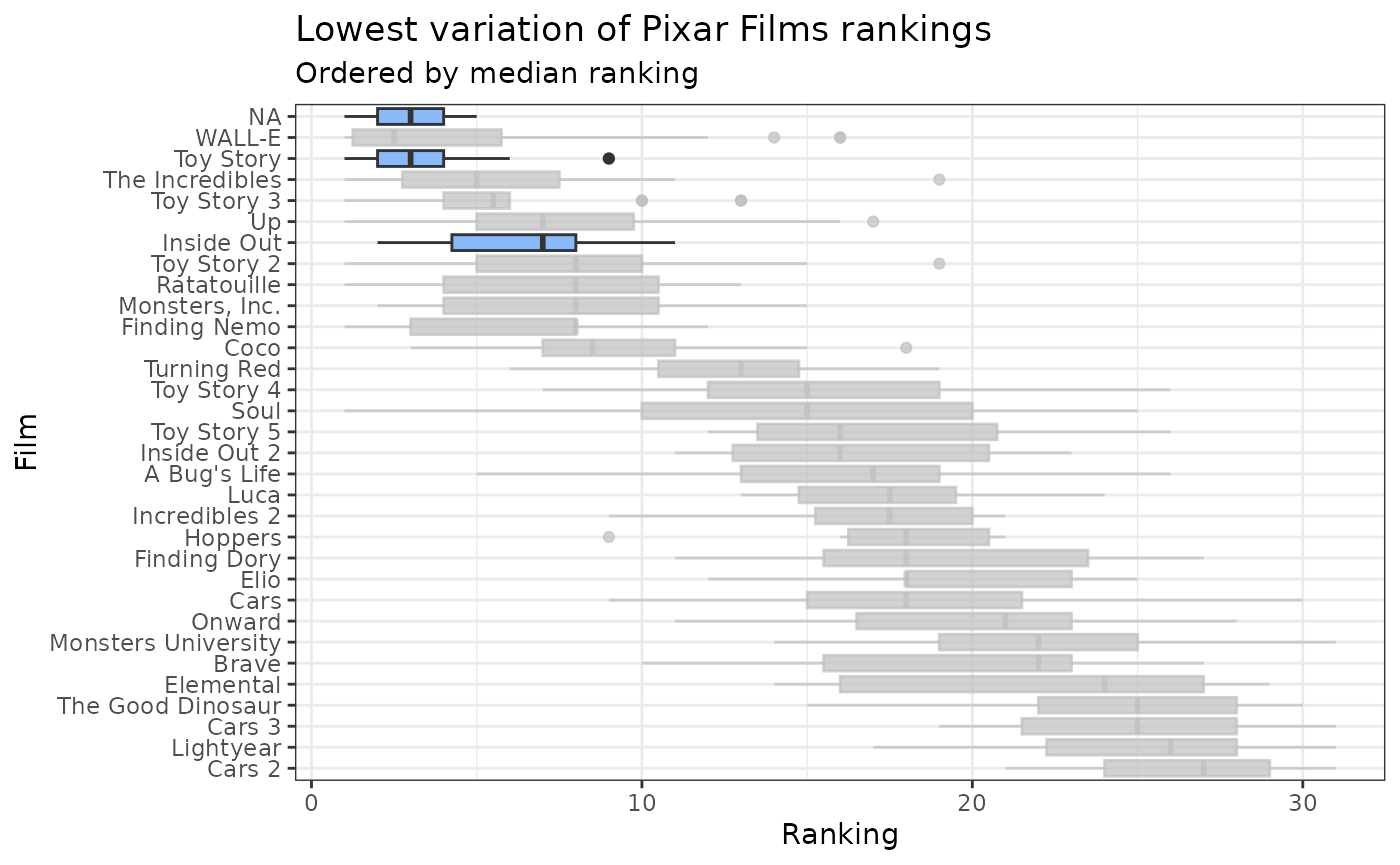
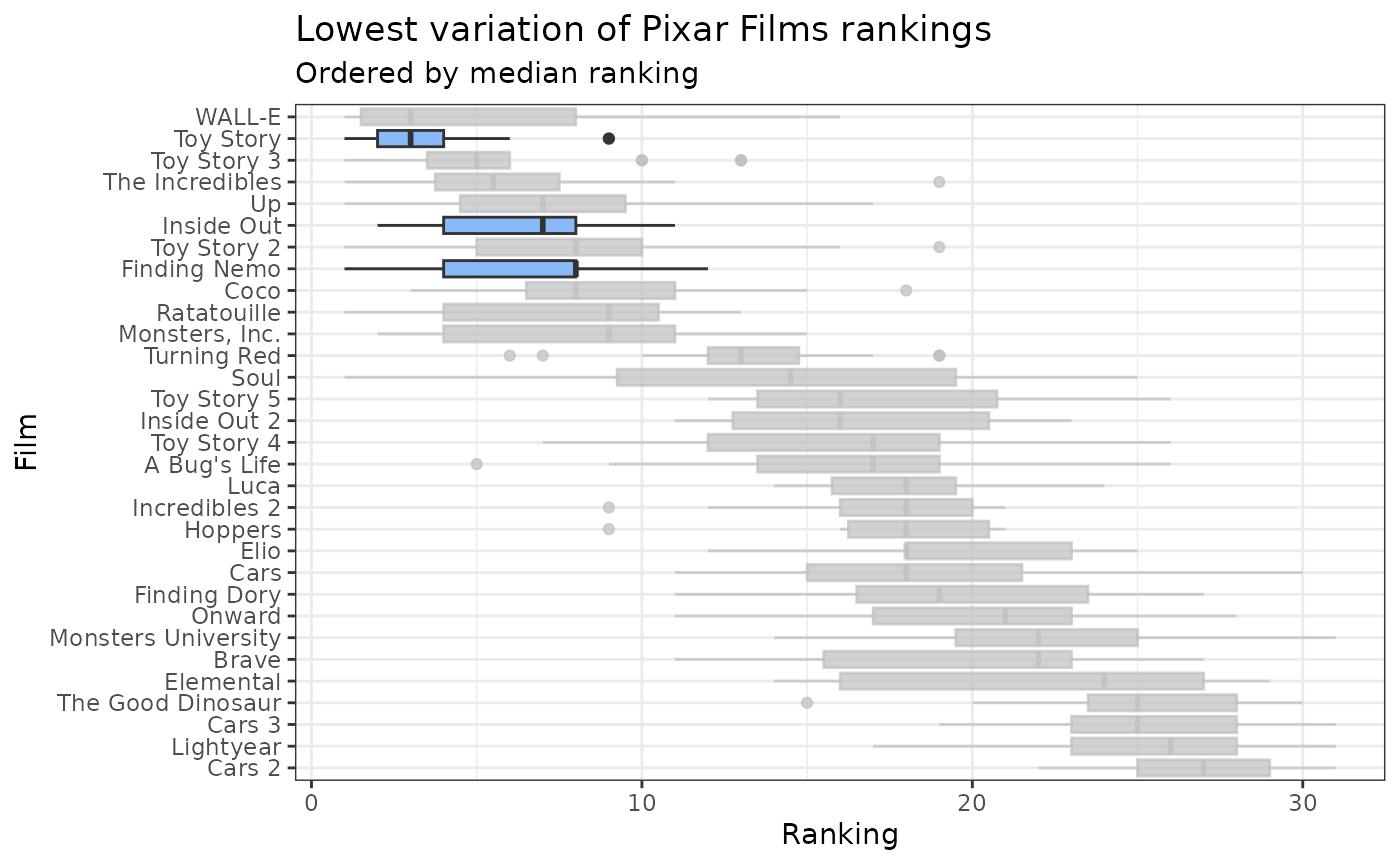
Deploying to gh-pages from @ erictleung/pixarfilms@f928a2eeff03c593ab5d79d384c2a3bc54f45479 🚀

diff --git a/articles/pixar_rankings.html b/articles/pixar_rankings.html
@@ -143,23 +143,24 @@ each film to see which films have the lowest variance.</p>
 <span>  <span class="op">)</span> <span class="op">|&gt;</span></span>
 <span>  <span class="fu"><a href="https://dplyr.tidyverse.org/reference/arrange.html" class="external-link">arrange</a></span><span class="op">(</span><span class="va">sd</span><span class="op">)</span></span>
 <span><span class="fu"><a href="https://rdrr.io/r/base/print.html" class="external-link">print</a></span><span class="op">(</span><span class="va">summary_ranks</span><span class="op">)</span></span>
-<span><span class="co">#&gt; <span style="color: #949494;"># A tibble: 32 × 7</span></span></span>
+<span><span class="co">#&gt; <span style="color: #949494;"># A tibble: 31 × 7</span></span></span>
 <span><span class="co">#&gt;    film             sd    q1    q3   iqr lower_bound upper_bound</span></span>
 <span><span class="co">#&gt;    <span style="color: #949494; font-style: italic;">&lt;chr&gt;</span>         <span style="color: #949494; font-style: italic;">&lt;dbl&gt;</span> <span style="color: #949494; font-style: italic;">&lt;dbl&gt;</span> <span style="color: #949494; font-style: italic;">&lt;dbl&gt;</span> <span style="color: #949494; font-style: italic;">&lt;dbl&gt;</span>       <span style="color: #949494; font-style: italic;">&lt;dbl&gt;</span>       <span style="color: #949494; font-style: italic;">&lt;dbl&gt;</span></span></span>
-<span><span class="co">#&gt; <span style="color: #BCBCBC;"> 1</span> Toy Story      1.99  2      4    2          -<span style="color: #BB0000;">1</span>            7  </span></span>
-<span><span class="co">#&gt; <span style="color: #BCBCBC;"> 2</span> <span style="color: #BB0000;">NA</span>             2.83  2      4    2          -<span style="color: #BB0000;">1</span>            7  </span></span>
-<span><span class="co">#&gt; <span style="color: #BCBCBC;"> 3</span> Inside Out     2.97  4.25   8    3.75       -<span style="color: #BB0000;">1.38</span>        13.6</span></span>
-<span><span class="co">#&gt; <span style="color: #BCBCBC;"> 4</span> Finding Nemo   3.02  3      8    5          -<span style="color: #BB0000;">4.5</span>         15.5</span></span>
-<span><span class="co">#&gt; <span style="color: #BCBCBC;"> 5</span> Luca           3.20 14.8   19.5  4.75        7.62        26.6</span></span>
-<span><span class="co">#&gt; <span style="color: #BCBCBC;"> 6</span> Cars 2         3.30 24     29    5          16.5         36.5</span></span>
-<span><span class="co">#&gt; <span style="color: #BCBCBC;"> 7</span> Incredibles 2  3.39 15.2   20    4.75        8.12        27.1</span></span>
-<span><span class="co">#&gt; <span style="color: #BCBCBC;"> 8</span> Toy Story 3    3.49  4      6    2           1            9  </span></span>
-<span><span class="co">#&gt; <span style="color: #BCBCBC;"> 9</span> Coco           3.66  7     11    4           1           17  </span></span>
-<span><span class="co">#&gt; <span style="color: #BCBCBC;">10</span> Ratatouille    3.78  4     10.5  6.5        -<span style="color: #BB0000;">5.75</span>        20.2</span></span>
-<span><span class="co">#&gt; <span style="color: #949494;"># ℹ 22 more rows</span></span></span></code></pre></div>
-<p>We can see that Toy Story, NA, Inside Out, Finding Nemo, Luca, Cars 2
-have the lowest variance in their rankings. We can highlight these films
-in the boxplot above to see how they compare to the other films.</p>
+<span><span class="co">#&gt; <span style="color: #BCBCBC;"> 1</span> Toy Story      2.04   2     4    2          -<span style="color: #BB0000;">1</span>           7   </span></span>
+<span><span class="co">#&gt; <span style="color: #BCBCBC;"> 2</span> Finding Nemo   2.93   4     8    4          -<span style="color: #BB0000;">2</span>          14   </span></span>
+<span><span class="co">#&gt; <span style="color: #BCBCBC;"> 3</span> Inside Out     2.95   4     8    4          -<span style="color: #BB0000;">2</span>          14   </span></span>
+<span><span class="co">#&gt; <span style="color: #BCBCBC;"> 4</span> Luca           2.96  15.8  19.5  3.75       10.1        25.1 </span></span>
+<span><span class="co">#&gt; <span style="color: #BCBCBC;"> 5</span> Cars 2         3.02  25    29    4          19          35   </span></span>
+<span><span class="co">#&gt; <span style="color: #BCBCBC;"> 6</span> Incredibles 2  3.42  16    20    4          10          26   </span></span>
+<span><span class="co">#&gt; <span style="color: #BCBCBC;"> 7</span> Toy Story 3    3.58   3.5   6    2.5        -<span style="color: #BB0000;">0.25</span>        9.75</span></span>
+<span><span class="co">#&gt; <span style="color: #BCBCBC;"> 8</span> Cars 3         3.63  23    28    5          15.5        35.5 </span></span>
+<span><span class="co">#&gt; <span style="color: #BCBCBC;"> 9</span> Coco           3.69   6.5  11    4.5        -<span style="color: #BB0000;">0.25</span>       17.8 </span></span>
+<span><span class="co">#&gt; <span style="color: #BCBCBC;">10</span> Ratatouille    3.72   4    10.5  6.5        -<span style="color: #BB0000;">5.75</span>       20.2 </span></span>
+<span><span class="co">#&gt; <span style="color: #949494;"># ℹ 21 more rows</span></span></span></code></pre></div>
+<p>We can see that Toy Story, Finding Nemo, Inside Out, Luca, Cars 2,
+Incredibles 2 have the lowest variance in their rankings. We can
+highlight these films in the boxplot above to see how they compare to
+the other films.</p>
 <div class="sourceCode" id="cb5"><pre class="downlit sourceCode r">
 <code class="sourceCode R"><span><span class="va">pixar_rankings</span> <span class="op">|&gt;</span></span>
 <span>  <span class="fu"><a href="https://dplyr.tidyverse.org/reference/mutate.html" class="external-link">mutate</a></span><span class="op">(</span>film <span class="op">=</span> <span class="fu"><a href="https://forcats.tidyverse.org/reference/fct_reorder.html" class="external-link">fct_reorder</a></span><span class="op">(</span><span class="va">film</span>, <span class="va">ranking</span>, .fun <span class="op">=</span> <span class="va">median</span>, .desc <span class="op">=</span> <span class="cn">TRUE</span><span class="op">)</span><span class="op">)</span> <span class="op">|&gt;</span></span>
@@ -186,10 +187,10 @@ in the boxplot above to see how they compare to the other films.</p>
 <span><span class="co">#   width = 8,</span></span>
 <span><span class="co">#   height = 5</span></span>
 <span><span class="co"># )</span></span></code></pre></div>
-<p>We can also see that Toy Story, NA, Toy Story 3, Inside Out, Coco
-have the smallest IQR ranges in their rankings. We can highlight these
-films in the boxplot above to see how they compare to the other
-films.</p>
+<p>We can also see that Toy Story, Toy Story 3, Turning Red, Luca, The
+Incredibles have the smallest IQR ranges in their rankings. We can
+highlight these films in the boxplot above to see how they compare to
+the other films.</p>
 <div class="sourceCode" id="cb7"><pre class="downlit sourceCode r">
 <code class="sourceCode R"><span><span class="va">pixar_rankings</span> <span class="op">|&gt;</span></span>
 <span>  <span class="fu"><a href="https://dplyr.tidyverse.org/reference/mutate.html" class="external-link">mutate</a></span><span class="op">(</span>film <span class="op">=</span> <span class="fu"><a href="https://forcats.tidyverse.org/reference/fct_reorder.html" class="external-link">fct_reorder</a></span><span class="op">(</span><span class="va">film</span>, <span class="va">ranking</span>, .fun <span class="op">=</span> <span class="va">median</span>, .desc <span class="op">=</span> <span class="cn">TRUE</span><span class="op">)</span><span class="op">)</span> <span class="op">|&gt;</span></span>
@@ -217,7 +218,7 @@ films.</p>
 <span><span class="co">#   height = 5</span></span>
 <span><span class="co"># )</span></span></code></pre></div>
 <p>Now let’s highlight the highest variation in rankings. We can see
-that Soul, Elemental, Cars, A Bug’s Life, Toy Story 4 have the highest
+that Soul, Elemental, Toy Story 5, Toy Story 4, WALL-E have the highest
 variance in their rankings. We can highlight these films in the boxplot
 above to see how they compare to the other films.</p>
 <div class="sourceCode" id="cb9"><pre class="downlit sourceCode r">

diff --git a/reference/pixar_rankings.html b/reference/pixar_rankings.html
@@ -102,7 +102,7 @@
     <div class="section level2">
     <h2 id="ref-examples">Examples<a class="anchor" aria-label="anchor" href="#ref-examples"></a></h2>
     <div class="sourceCode"><pre class="sourceCode r"><code><span class="r-in"><span><span class="va">pixar_rankings</span></span></span>
-<span class="r-out co"><span class="r-pr">#&gt;</span> <span style="color: #949494;"># A tibble: 521 × 3</span></span>
+<span class="r-out co"><span class="r-pr">#&gt;</span> <span style="color: #949494;"># A tibble: 526 × 3</span></span>
 <span class="r-out co"><span class="r-pr">#&gt;</span>    film            source          ranking</span>
 <span class="r-out co"><span class="r-pr">#&gt;</span>    <span style="color: #949494; font-style: italic;">&lt;chr&gt;</span>           <span style="color: #949494; font-style: italic;">&lt;chr&gt;</span>             <span style="color: #949494; font-style: italic;">&lt;dbl&gt;</span></span>
 <span class="r-out co"><span class="r-pr">#&gt;</span> <span style="color: #BCBCBC;"> 1</span> Toy Story 2     Rotten Tomatoes       1</span>
@@ -115,7 +115,7 @@
 <span class="r-out co"><span class="r-pr">#&gt;</span> <span style="color: #BCBCBC;"> 8</span> Coco            Rotten Tomatoes       8</span>
 <span class="r-out co"><span class="r-pr">#&gt;</span> <span style="color: #BCBCBC;"> 9</span> The Incredibles Rotten Tomatoes       9</span>
 <span class="r-out co"><span class="r-pr">#&gt;</span> <span style="color: #BCBCBC;">10</span> Ratatouille     Rotten Tomatoes      10</span>
-<span class="r-out co"><span class="r-pr">#&gt;</span> <span style="color: #949494;"># ℹ 511 more rows</span></span>
+<span class="r-out co"><span class="r-pr">#&gt;</span> <span style="color: #949494;"># ℹ 516 more rows</span></span>
 </code></pre></div>
     </div>
   </main><aside class="col-md-3"><nav id="toc" aria-label="Table of contents"><h2>On this page</h2>

diff --git a/articles/pixar_rankings.md b/articles/pixar_rankings.md
@@ -70,25 +70,26 @@ summary_ranks <-
   ) |>
   arrange(sd)
 print(summary_ranks)
-#> # A tibble: 32 × 7
+#> # A tibble: 31 × 7
 #>    film             sd    q1    q3   iqr lower_bound upper_bound
 #>    <chr>         <dbl> <dbl> <dbl> <dbl>       <dbl>       <dbl>
-#>  1 Toy Story      1.99  2      4    2          -1            7  
-#>  2 NA             2.83  2      4    2          -1            7  
-#>  3 Inside Out     2.97  4.25   8    3.75       -1.38        13.6
-#>  4 Finding Nemo   3.02  3      8    5          -4.5         15.5
-#>  5 Luca           3.20 14.8   19.5  4.75        7.62        26.6
-#>  6 Cars 2         3.30 24     29    5          16.5         36.5
-#>  7 Incredibles 2  3.39 15.2   20    4.75        8.12        27.1
-#>  8 Toy Story 3    3.49  4      6    2           1            9  
-#>  9 Coco           3.66  7     11    4           1           17  
-#> 10 Ratatouille    3.78  4     10.5  6.5        -5.75        20.2
-#> # ℹ 22 more rows
+#>  1 Toy Story      2.04   2     4    2          -1           7   
+#>  2 Finding Nemo   2.93   4     8    4          -2          14   
+#>  3 Inside Out     2.95   4     8    4          -2          14   
+#>  4 Luca           2.96  15.8  19.5  3.75       10.1        25.1 
+#>  5 Cars 2         3.02  25    29    4          19          35   
+#>  6 Incredibles 2  3.42  16    20    4          10          26   
+#>  7 Toy Story 3    3.58   3.5   6    2.5        -0.25        9.75
+#>  8 Cars 3         3.63  23    28    5          15.5        35.5 
+#>  9 Coco           3.69   6.5  11    4.5        -0.25       17.8 
+#> 10 Ratatouille    3.72   4    10.5  6.5        -5.75       20.2 
+#> # ℹ 21 more rows
 ```
 
-We can see that Toy Story, NA, Inside Out, Finding Nemo, Luca, Cars 2
-have the lowest variance in their rankings. We can highlight these films
-in the boxplot above to see how they compare to the other films.
+We can see that Toy Story, Finding Nemo, Inside Out, Luca, Cars 2,
+Incredibles 2 have the lowest variance in their rankings. We can
+highlight these films in the boxplot above to see how they compare to
+the other films.
 
 ``` r
 
@@ -123,9 +124,10 @@ pixar_rankings |>
 # )
 ```
 
-We can also see that Toy Story, NA, Toy Story 3, Inside Out, Coco have
-the smallest IQR ranges in their rankings. We can highlight these films
-in the boxplot above to see how they compare to the other films.
+We can also see that Toy Story, Toy Story 3, Turning Red, Luca, The
+Incredibles have the smallest IQR ranges in their rankings. We can
+highlight these films in the boxplot above to see how they compare to
+the other films.
 
 ``` r
 
@@ -161,7 +163,7 @@ pixar_rankings |>
 ```
 
 Now let’s highlight the highest variation in rankings. We can see that
-Soul, Elemental, Cars, A Bug’s Life, Toy Story 4 have the highest
+Soul, Elemental, Toy Story 5, Toy Story 4, WALL-E have the highest
 variance in their rankings. We can highlight these films in the boxplot
 above to see how they compare to the other films.
 

diff --git a/reference/pixar_rankings.md b/reference/pixar_rankings.md
@@ -70,7 +70,7 @@ The sources include these websites:
 
 ``` r
 pixar_rankings
-#> # A tibble: 521 × 3
+#> # A tibble: 526 × 3
 #>    film            source          ranking
 #>    <chr>           <chr>             <dbl>
 #>  1 Toy Story 2     Rotten Tomatoes       1
@@ -83,5 +83,5 @@ pixar_rankings
 #>  8 Coco            Rotten Tomatoes       8
 #>  9 The Incredibles Rotten Tomatoes       9
 #> 10 Ratatouille     Rotten Tomatoes      10
-#> # ℹ 511 more rows
+#> # ℹ 516 more rows
 ```
